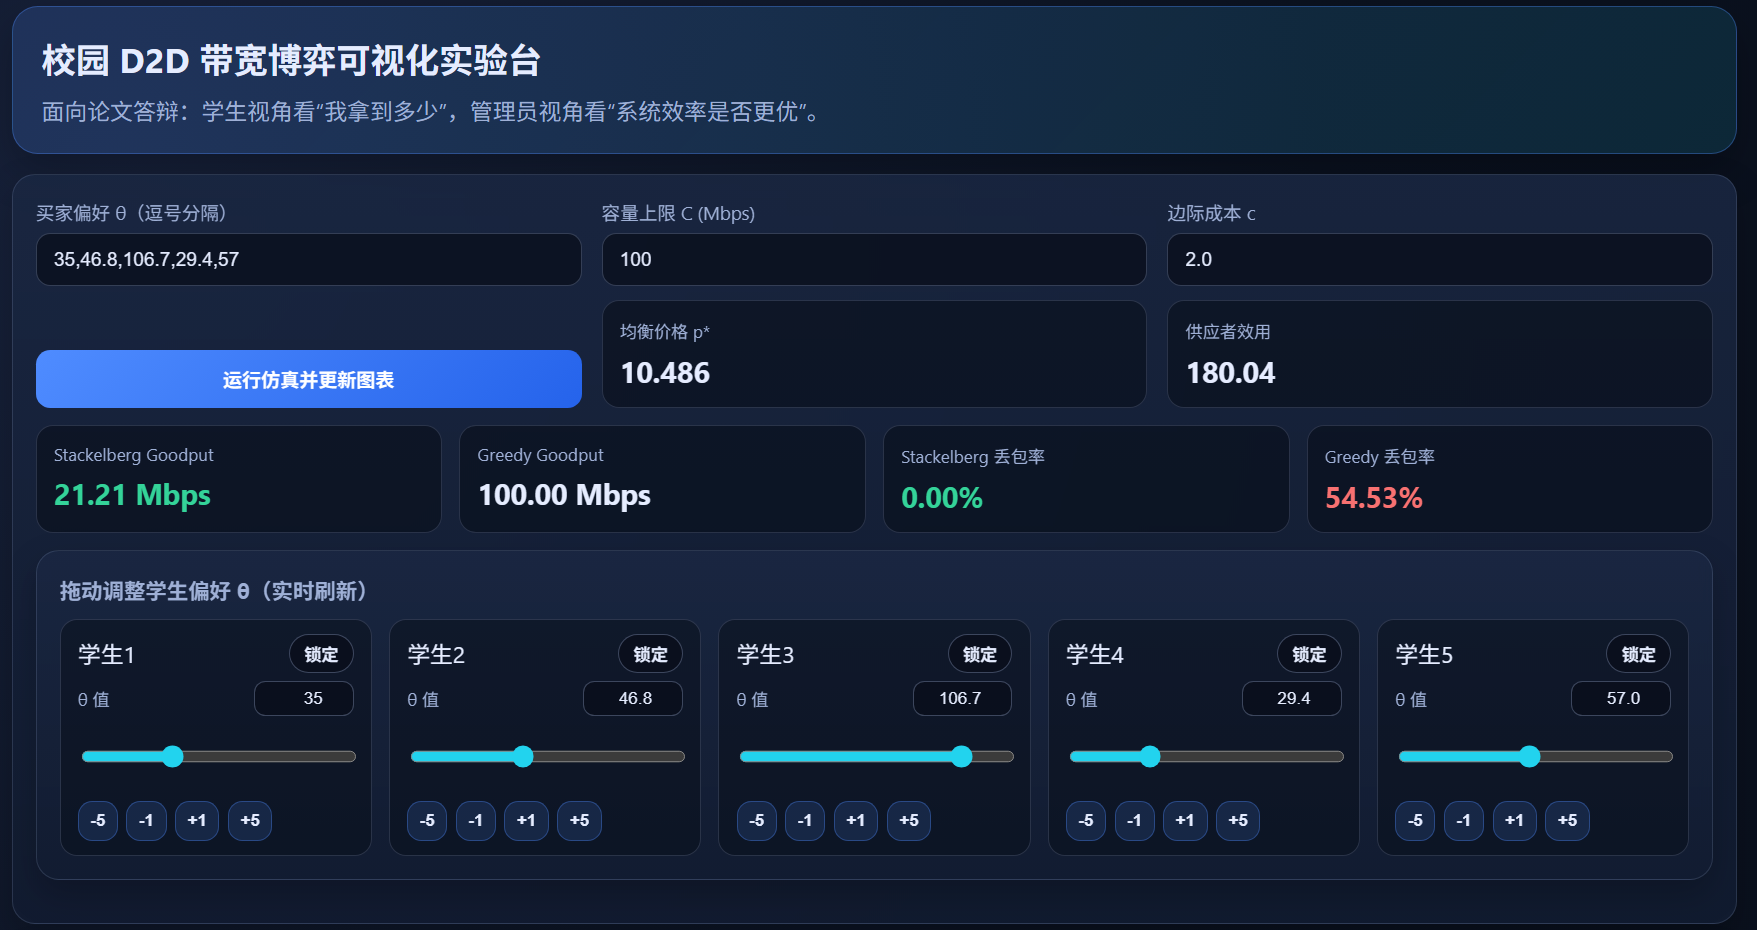
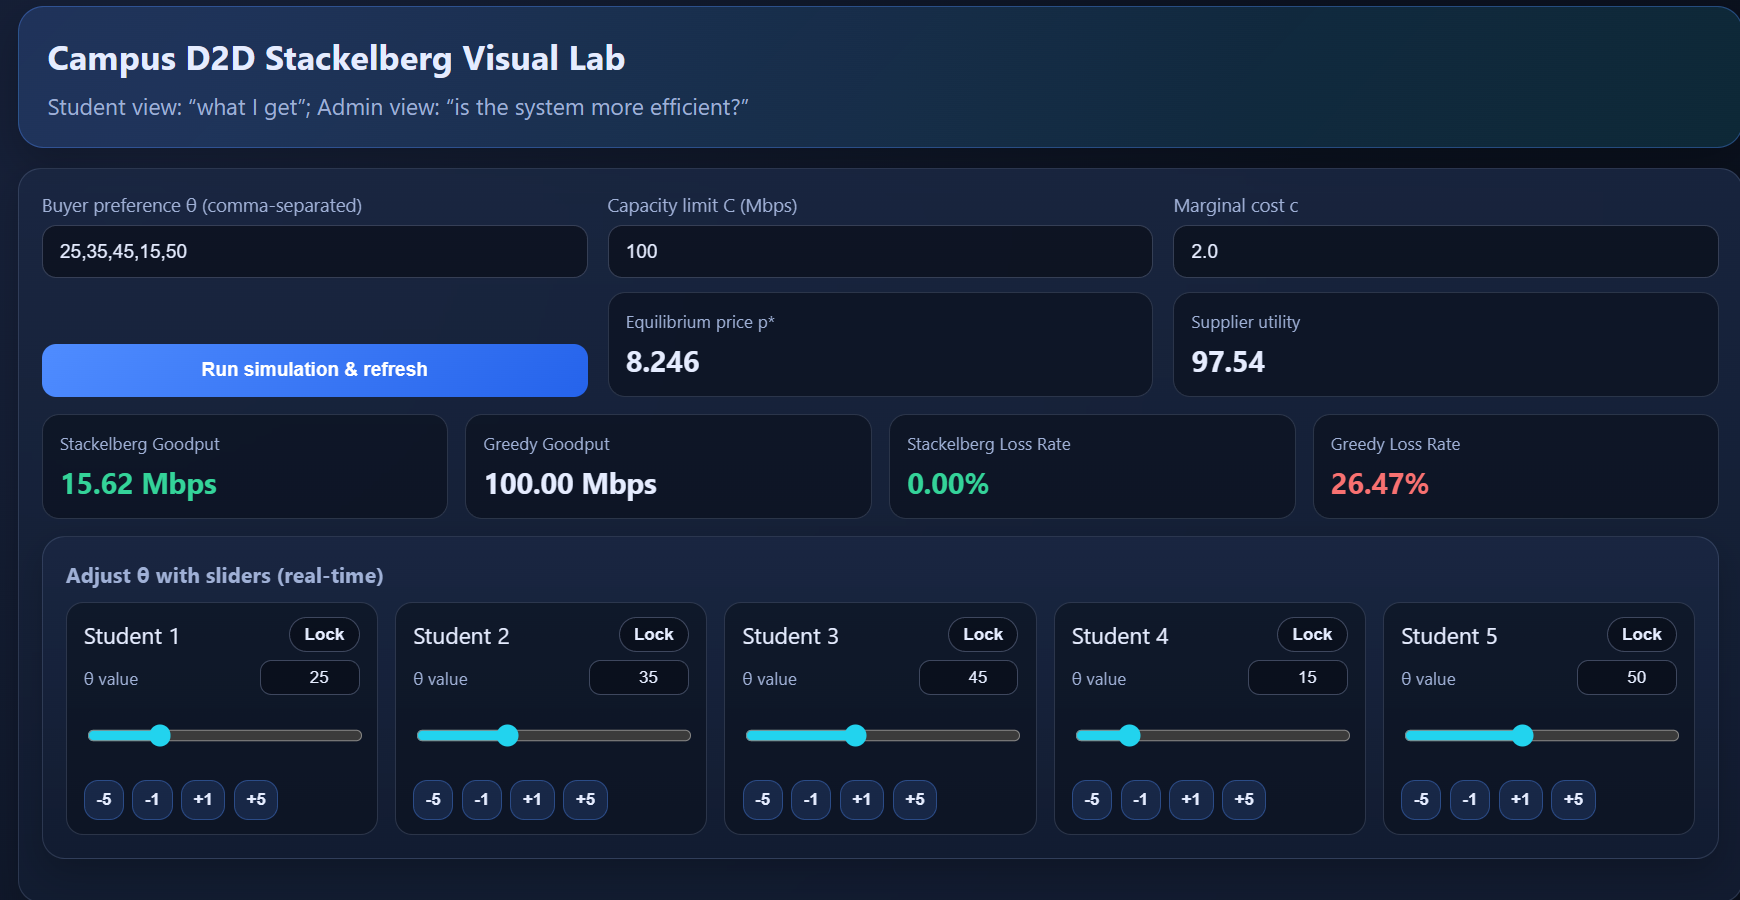
English demo frontend

diff --git a/frontend/index.html b/frontend/index.html
@@ -3,7 +3,7 @@
 <head>
   <meta charset="UTF-8" />
   <meta name="viewport" content="width=device-width, initial-scale=1.0" />
-  <title>Campus D2D Stackelberg 可视化实验台</title>
+  <title>Campus D2D Stackelberg Visual Lab</title>
   <script src="https://cdn.jsdelivr.net/npm/chart.js"></script>
   <style>
     :root {
@@ -221,63 +221,63 @@
 <body>
   <div class="container">
     <section class="hero">
-      <h1>校园 D2D 带宽博弈可视化实验台</h1>
-      <p>面向论文答辩：学生视角看“我拿到多少”，管理员视角看“系统效率是否更优”。</p>
+  <h1>Campus D2D Stackelberg Visual Lab</h1>
+  <p>Student view: “what I get”; Admin view: “is the system more efficient?”</p>
     </section>
 
     <section class="card">
       <div class="grid-3">
         <div class="field">
-          <label>买家偏好 θ（逗号分隔）</label>
+          <label>Buyer preference θ (comma-separated)</label>
           <input id="theta" value="25,35,45,15,50" />
         </div>
         <div class="field">
-          <label>容量上限 C (Mbps)</label>
+          <label>Capacity limit C (Mbps)</label>
           <input id="capacity" type="number" value="100" />
         </div>
         <div class="field">
-          <label>边际成本 c</label>
+          <label>Marginal cost c</label>
           <input id="cost" type="number" step="0.1" value="2.0" />
         </div>
       </div>
       <div class="grid-3" style="margin-top: 10px;">
-        <div class="btn-wrap"><button id="runBtn">运行仿真并更新图表</button></div>
-        <div class="kpi"><div class="label">均衡价格 p*</div><div class="value" id="kpiPrice">-</div></div>
-        <div class="kpi"><div class="label">供应者效用</div><div class="value" id="kpiUtility">-</div></div>
+  <div class="btn-wrap"><button id="runBtn">Run simulation & refresh</button></div>
+  <div class="kpi"><div class="label">Equilibrium price p*</div><div class="value" id="kpiPrice">-</div></div>
+  <div class="kpi"><div class="label">Supplier utility</div><div class="value" id="kpiUtility">-</div></div>
       </div>
 
       <div class="kpi-grid">
-        <div class="kpi"><div class="label">Stackelberg Goodput</div><div class="value ok" id="kpiGoodStack">-</div></div>
-        <div class="kpi"><div class="label">Greedy Goodput</div><div class="value" id="kpiGoodGreedy">-</div></div>
-        <div class="kpi"><div class="label">Stackelberg 丢包率</div><div class="value ok" id="kpiLossStack">-</div></div>
-        <div class="kpi"><div class="label">Greedy 丢包率</div><div class="value bad" id="kpiLossGreedy">-</div></div>
+  <div class="kpi"><div class="label">Stackelberg Goodput</div><div class="value ok" id="kpiGoodStack">-</div></div>
+  <div class="kpi"><div class="label">Greedy Goodput</div><div class="value" id="kpiGoodGreedy">-</div></div>
+  <div class="kpi"><div class="label">Stackelberg Loss Rate</div><div class="value ok" id="kpiLossStack">-</div></div>
+  <div class="kpi"><div class="label">Greedy Loss Rate</div><div class="value bad" id="kpiLossGreedy">-</div></div>
       </div>
 
       <div class="card" style="margin-top: 12px;">
-        <h3 class="chart-title">拖动调整学生偏好 θ（实时刷新）</h3>
+  <h3 class="chart-title">Adjust θ with sliders (real-time)</h3>
         <div id="thetaSliders" class="slider-grid"></div>
       </div>
     </section>
 
     <section class="card">
       <div class="tabs">
-        <button class="tab active" data-tab="student">学生视角</button>
-        <button class="tab" data-tab="admin">管理员视角</button>
+  <button class="tab active" data-tab="student">Student View</button>
+  <button class="tab" data-tab="admin">Admin View</button>
       </div>
 
       <div id="studentView">
         <div class="grid-2">
           <div class="card chart-card">
-            <h3 class="chart-title">学生可得带宽对比（柱状图）</h3>
+            <h3 class="chart-title">Bandwidth per student (bar)</h3>
             <div class="chart-wrap"><canvas id="allocationBarChart"></canvas></div>
           </div>
           <div class="card chart-card">
-            <h3 class="chart-title">个人收益感知（雷达图）</h3>
+            <h3 class="chart-title">Per-student experience (radar)</h3>
             <div class="chart-wrap"><canvas id="studentRadarChart"></canvas></div>
           </div>
         </div>
         <div class="card">
-          <h3 class="chart-title">分配明细</h3>
+          <h3 class="chart-title">Allocation table</h3>
           <table id="buyerTable"></table>
         </div>
       </div>
@@ -285,20 +285,20 @@
       <div id="adminView" style="display:none;">
         <div class="grid-2">
           <div class="card chart-card">
-            <h3 class="chart-title">系统吞吐与丢包对比（组合图）</h3>
+            <h3 class="chart-title">Goodput vs. loss (combo)</h3>
             <div class="chart-wrap"><canvas id="systemMixChart"></canvas></div>
           </div>
           <div class="card chart-card">
-            <h3 class="chart-title">资源效率占比（环图）</h3>
+            <h3 class="chart-title">Resource efficiency (donut)</h3>
             <div class="chart-wrap"><canvas id="efficiencyDonutChart"></canvas></div>
           </div>
         </div>
         <div class="card chart-card">
-          <h3 class="chart-title">总分配量与容量约束（折线图）</h3>
+          <h3 class="chart-title">Total allocation vs. capacity (line)</h3>
           <div class="chart-wrap"><canvas id="capacityLineChart"></canvas></div>
         </div>
       </div>
-      <p class="footnote">注：Greedy 场景作为对照组，用于展示无定价约束下过载风险。</p>
+  <p class="footnote">Note: Greedy is the baseline to show overload risk without pricing.</p>
     </section>
   </div>
 
@@ -335,11 +335,11 @@ function renderThetaSliders() {
   container.innerHTML = thetaState.map((theta, index) => `
     <div class="slider-item ${lockState[index] ? 'locked' : ''}" data-index="${index}">
       <div class="slider-top">
-        <span>学生${index + 1}</span>
-        <button class="lock-btn ${lockState[index] ? 'locked' : ''}" data-action="lock">${lockState[index] ? '已锁定' : '锁定'}</button>
+        <span>Student ${index + 1}</span>
+        <button class="lock-btn ${lockState[index] ? 'locked' : ''}" data-action="lock">${lockState[index] ? 'Locked' : 'Lock'}</button>
       </div>
       <label>
-        <span>θ 值</span>
+        <span>θ value</span>
         <input class="slider-value" type="number" min="1" max="120" step="0.1" value="${theta}" />
       </label>
       <input type="range" min="1" max="120" step="0.1" value="${theta}" />
@@ -372,10 +372,10 @@ function setKpis(data) {
 }
 
 function renderTable(data) {
-  const header = '<tr><th>学生ID</th><th>θ偏好</th><th>Stackelberg 分配(Mbps)</th><th>Greedy 分配(Mbps)</th></tr>';
+  const header = '<tr><th>Student</th><th>θ</th><th>Stackelberg (Mbps)</th><th>Greedy (Mbps)</th></tr>';
   const rows = data.buyers.map(b => `
     <tr>
-      <td>学生${b.buyer_id}</td>
+      <td>Student ${b.buyer_id}</td>
       <td>${b.theta}</td>
       <td>${b.allocation_stackelberg}</td>
       <td>${b.allocation_greedy}</td>
@@ -399,7 +399,7 @@ window.addEventListener('resize', () => {
 });
 
 function renderCharts(data, capacity) {
-  const labels = data.buyers.map(b => `学生${b.buyer_id}`);
+  const labels = data.buyers.map(b => `Student ${b.buyer_id}`);
   const stack = data.buyers.map(b => b.allocation_stackelberg);
   const greedy = data.buyers.map(b => b.allocation_greedy);
 
@@ -422,8 +422,8 @@ function renderCharts(data, capacity) {
     data: {
       labels,
       datasets: [
-        { label: 'Stackelberg 体验', data: stack, borderColor: '#22d3ee', backgroundColor: 'rgba(34, 211, 238, 0.22)' },
-        { label: 'Greedy 体验', data: greedy, borderColor: '#f97316', backgroundColor: 'rgba(249, 115, 22, 0.16)' }
+  { label: 'Stackelberg experience', data: stack, borderColor: '#22d3ee', backgroundColor: 'rgba(34, 211, 238, 0.22)' },
+  { label: 'Greedy experience', data: greedy, borderColor: '#f97316', backgroundColor: 'rgba(249, 115, 22, 0.16)' }
       ]
     },
     options: {
@@ -444,18 +444,18 @@ function renderCharts(data, capacity) {
   destroyIfExists(systemMixChart);
   systemMixChart = new Chart(document.getElementById('systemMixChart'), {
     data: {
-      labels: ['Stackelberg', 'Greedy'],
+  labels: ['Stackelberg', 'Greedy'],
       datasets: [
         {
           type: 'bar',
-          label: 'Goodput(Mbps)',
+          label: 'Goodput (Mbps)',
           data: [data.goodput_stackelberg, data.goodput_greedy],
           backgroundColor: ['rgba(52, 211, 153, 0.8)', 'rgba(148, 163, 184, 0.7)'],
           yAxisID: 'y'
         },
         {
           type: 'line',
-          label: 'Loss Rate(%)',
+          label: 'Loss Rate (%)',
           data: [data.loss_rate_stackelberg * 100, data.loss_rate_greedy * 100],
           borderColor: '#f87171',
           backgroundColor: '#f87171',
@@ -481,7 +481,7 @@ function renderCharts(data, capacity) {
   efficiencyDonutChart = new Chart(document.getElementById('efficiencyDonutChart'), {
     type: 'doughnut',
     data: {
-      labels: ['Stackelberg 有效吞吐', 'Greedy 有效吞吐', 'Greedy 过载损失'],
+  labels: ['Stackelberg goodput', 'Greedy goodput', 'Greedy overload loss'],
       datasets: [{
         data: [data.goodput_stackelberg, data.goodput_greedy, greedyWaste],
         backgroundColor: ['#34d399', '#60a5fa', '#f87171']
@@ -498,7 +498,7 @@ function renderCharts(data, capacity) {
   capacityLineChart = new Chart(document.getElementById('capacityLineChart'), {
     type: 'line',
     data: {
-      labels: ['容量上限', 'Stackelberg总分配', 'Greedy总分配'],
+  labels: ['Capacity', 'Stackelberg total', 'Greedy total'],
       datasets: [{
         label: 'Mbps',
         data: [capacity, data.total_allocation_stackelberg, data.total_allocation_greedy],
@@ -523,13 +523,13 @@ async function runSimulation(fromSlider = false) {
   const cost_c = Number(document.getElementById('cost').value);
 
   if (!buyers_theta.length || !Number.isFinite(capacity_mbps) || !Number.isFinite(cost_c) || capacity_mbps <= 0 || cost_c <= 0) {
-    alert('参数不合法：请检查 θ、容量 C、成本 c。');
+  alert('Invalid parameters: check θ, capacity C, and cost c.');
     return;
   }
 
   const btn = document.getElementById('runBtn');
   btn.disabled = true;
-  btn.textContent = '仿真中...';
+  btn.textContent = 'Simulating...';
 
   try {
     const res = await fetch(API, {
@@ -537,17 +537,17 @@ async function runSimulation(fromSlider = false) {
       headers: { 'Content-Type': 'application/json' },
       body: JSON.stringify({ buyers_theta, capacity_mbps, cost_c })
     });
-    if (!res.ok) throw new Error('后端接口请求失败');
+  if (!res.ok) throw new Error('Backend request failed');
 
     const data = await res.json();
     setKpis(data);
     renderTable(data);
     renderCharts(data, capacity_mbps);
   } catch (err) {
-    alert(`仿真失败：${err.message}`);
+  alert(`Simulation failed: ${err.message}`);
   } finally {
     btn.disabled = false;
-    btn.textContent = '运行仿真并更新图表';
+  btn.textContent = 'Run simulation & refresh';
   }
 }
 
